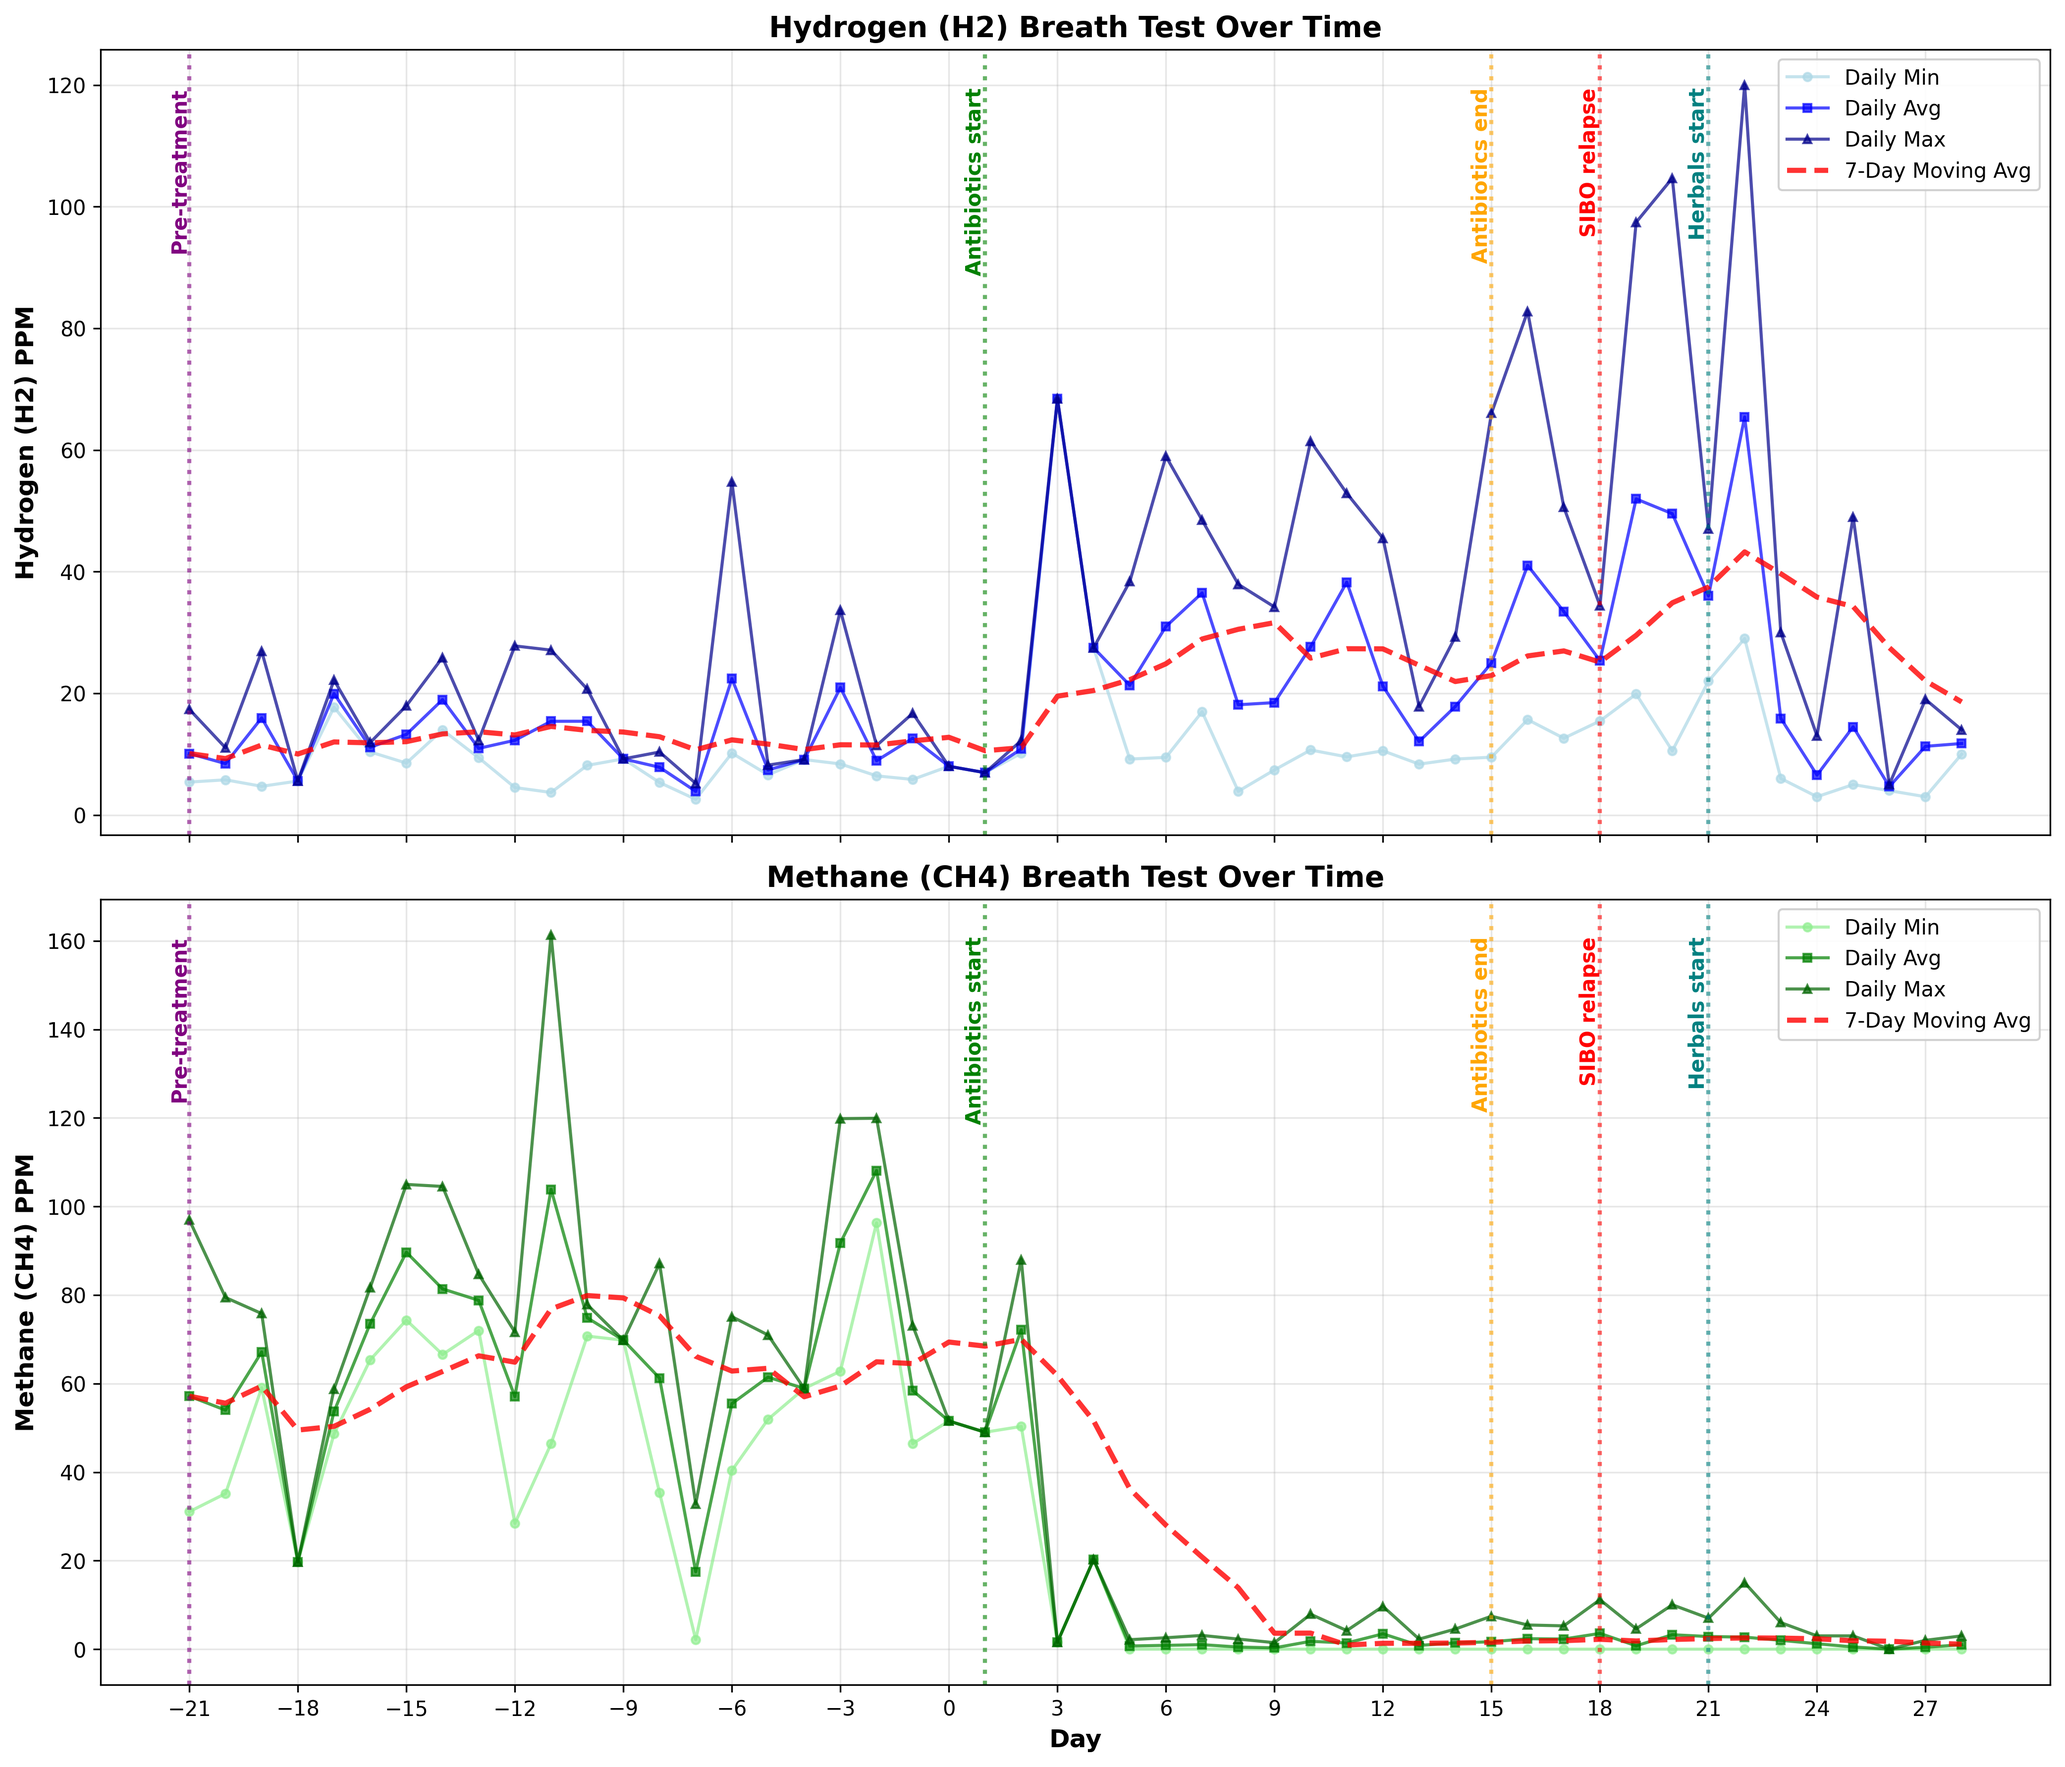
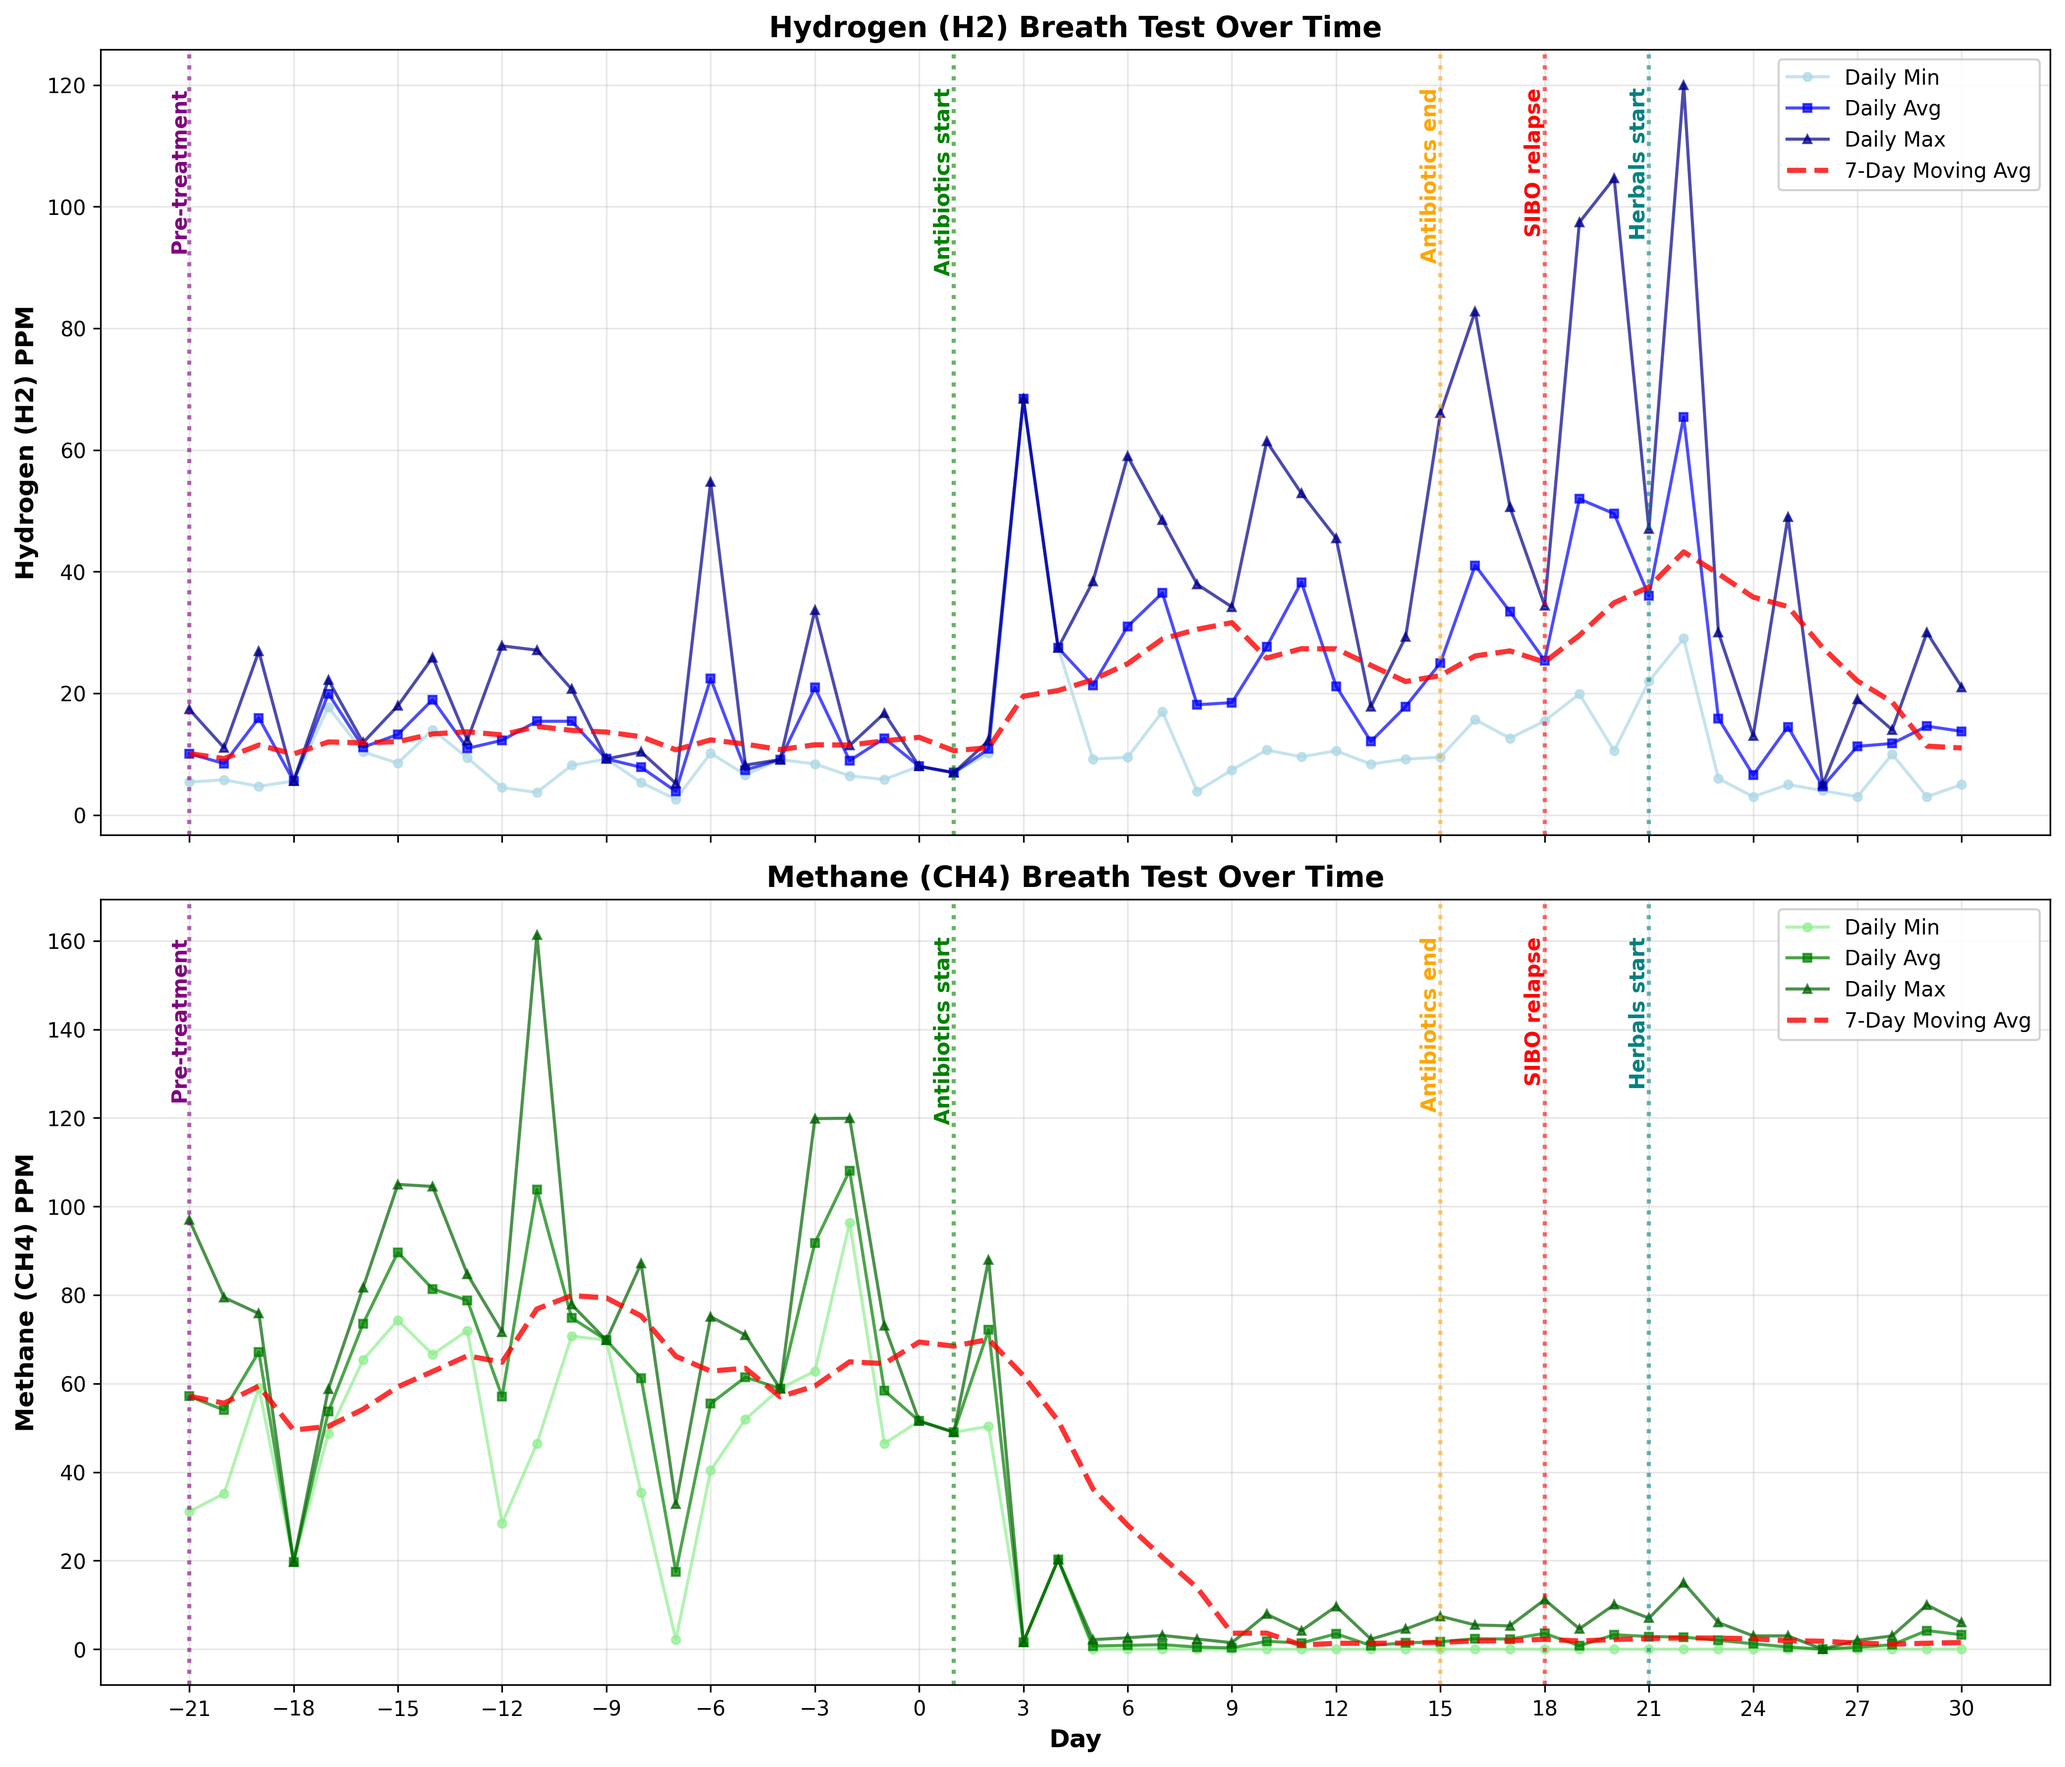
Add oregano oil and latest data to 20 years with sibo

diff --git a/posts/20-years-with-ibs/index.html b/posts/20-years-with-ibs/index.html
@@ -157,7 +157,7 @@ Background Link to heading I spent 20 years being told I have Irritable Bowel Sy
             </span>
             <span class="reading-time">
               <i class="fa-solid fa-clock" aria-hidden="true"></i>
-              24-minute read
+              25-minute read
             </span>
           </div>
           
@@ -360,7 +360,19 @@ Background Link to heading I spent 20 years being told I have Irritable Bowel Sy
     <span class="sr-only">Link to heading</span>
   </a>
 </h3>
-<p>Berberine became my primary antimicrobial agent. The <a href="https://www.frontiersin.org/journals/pharmacology/articles/10.3389/fphar.2023.1121435/full"  class="external-link" target="_blank" rel="noopener">BRIEF-SIBO trial</a> is investigating whether berberine is as good as rifaximin for SIBO treatment, using 800mg daily dosing. I opted for slightly higher dosing at 2 x 500mg daily with meals for 4-6 weeks per suggested dosage on the container. Unlike broad-spectrum antibiotics, berberine appears to selectively promote beneficial bacteria whilst reducing pathogenic overgrowth.</p>
+<p>Berberine became my primary antimicrobial agent. The rationale for using herbal protocols came from a <a href="https://pubmed.ncbi.nlm.nih.gov/24891990/"  class="external-link" target="_blank" rel="noopener">2014 study</a> comparing herbal therapy to rifaximin for SIBO treatment. Amongst patients receiving herbal therapy, 46% had a negative follow-up breath test compared to 34% of rifaximin users - suggesting herbal approaches were at least as effective. Importantly, patients in the herbal therapy group experienced far fewer side effects, with only one case of diarrhoea reported versus multiple adverse reactions (including anaphylaxis and hives) in the rifaximin group.</p>
+<p>The <a href="https://www.frontiersin.org/journals/pharmacology/articles/10.3389/fphar.2023.1121435/full"  class="external-link" target="_blank" rel="noopener">BRIEF-SIBO trial</a> is investigating whether berberine specifically is as good as rifaximin for SIBO treatment, using 800mg daily dosing. I opted for slightly higher dosing at 2 x 500mg daily with meals for 4-6 weeks per suggested dosage on the container. Unlike broad-spectrum antibiotics, berberine appears to selectively promote beneficial bacteria whilst reducing pathogenic overgrowth.</p>
+<h3 id="oregano-oil-as-additional-antimicrobial-56mg-once-daily">
+  Oregano oil as additional antimicrobial (56mg, once daily)
+  <a class="heading-link" href="#oregano-oil-as-additional-antimicrobial-56mg-once-daily">
+    <i class="fa-solid fa-link" aria-hidden="true" title="Link to heading"></i>
+    <span class="sr-only">Link to heading</span>
+  </a>
+</h3>
+<p>On day 27, I added oregano oil to the protocol, taking it at lunchtime. I decided to add after a few days to be able to track any issues arising from each of the two types of antimicrobials. The decision came from research showing oregano oil&rsquo;s active compounds - carvacrol and thymol - have potent antimicrobial and antibiofilm properties that complement berberine&rsquo;s action.</p>
+<p>Oregano oil works through multiple mechanisms. Research on <a href="https://pubmed.ncbi.nlm.nih.gov/28980415/"  class="external-link" target="_blank" rel="noopener">carvacrol and thymol</a> demonstrates they inhibit bacterial biofilm formation at very low concentrations and limits the bacteria&rsquo;s ability to spread. These compounds essentially strip away bacterial defences whilst the berberine attacks the overgrowth itself.</p>
+<p>A <a href="https://pmc.ncbi.nlm.nih.gov/articles/PMC11435404/"  class="external-link" target="_blank" rel="noopener">2024 study</a> examining botanical supplements for SIBO found that oregano essential oils exhibit antimicrobial activity by disrupting bacterial cell membranes and interfering with electron flow - effectively making the bacteria unable to maintain their basic functions. Whilst the study showed mixed results across different SIBO types, it found the botanical regimen most effective for hydrogen-dominant SIBO, with 42.8% of participants achieving negative breath tests after 10 weeks.</p>
+<p>I&rsquo;m taking 56mg once per day at lunch, planning a 4-6 week course alongside the berberine. The dual antimicrobial approach targets both the bacterial overgrowth and the protective biofilms simultaneously.</p>
 <h2 id="resources-and-costs">
   Resources and costs
   <a class="heading-link" href="#resources-and-costs">
@@ -402,6 +414,11 @@ Background Link to heading I spent 20 years being told I have Irritable Bowel Sy
 <ul>
 <li><strong>Holland &amp; Barrett Ireland</strong>: New Nordic Sugar Cut Berberine 60 Tablets (400mg per tablet) - €35.09</li>
 <li><strong>Amazon.de</strong>: Bandini Berberine 1000 mg Pure High Dose | 180 Vegan Capsules (500mg per capsule) - €21.15</li>
+</ul>
+<p><em>Oregano Oil (56mg):</em></p>
+<ul>
+<li><strong>Holland &amp; Barrett Ireland</strong>: Oil of Oregano 56mg (28mg per capsule), 90 capsules - €19.99</li>
+<li><strong>Amazon.de</strong>: Heldengrün Organic Oregano Oil Capsules [High Dose] 100 mg - 90 Capsules - €17.95</li>
 </ul>
 <h3 id="siboimo-breath-testing-in-europe">
   SIBO/IMO breath testing in Europe
